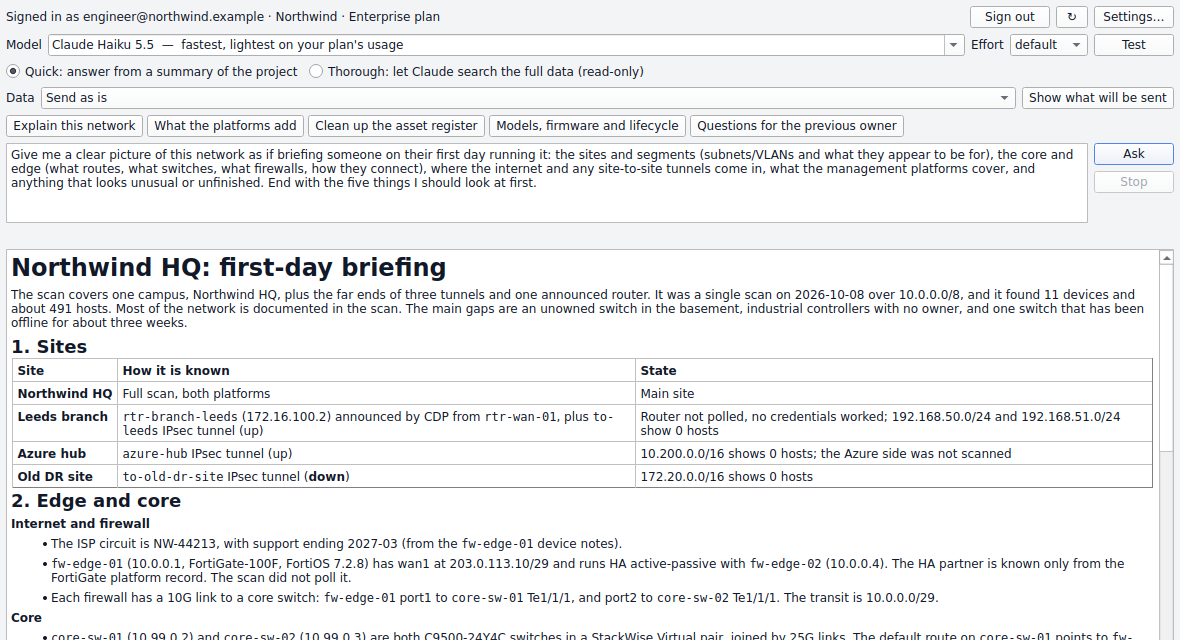
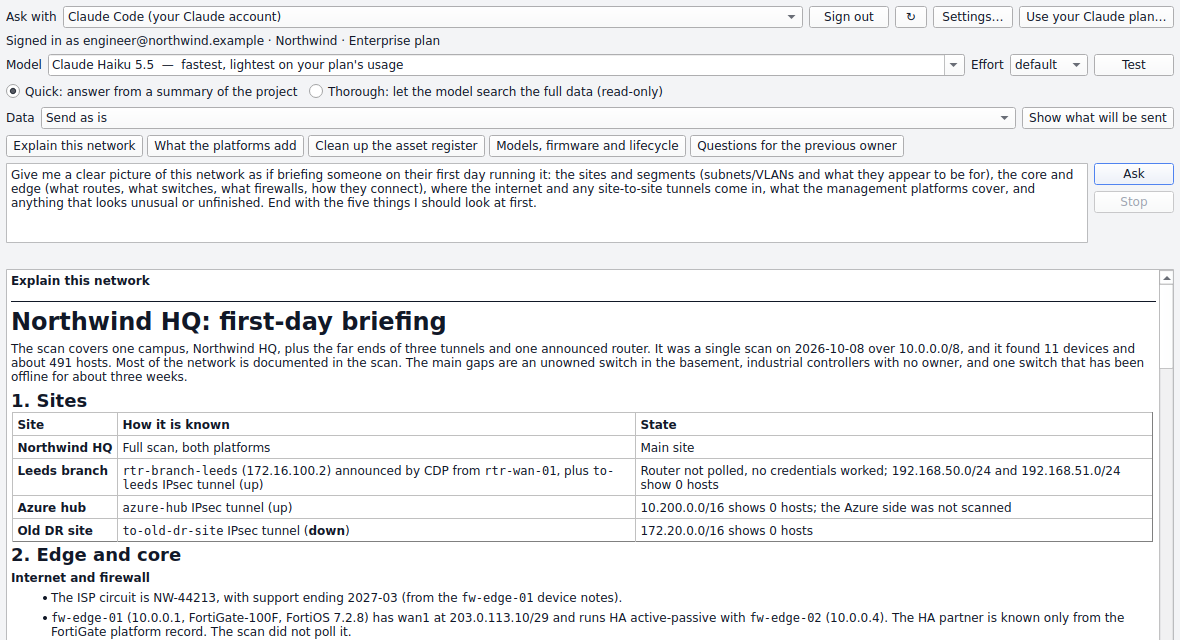
SubnetSleuth: Claude on any plan (Claude Desktop, Cowork, claude.ai) and AI providers through an API

Changed region(s): [[0.0, 0.375, 0.9763, 1.0], [0.0, 0.0, 1.0, 0.3438], [0.9763, 0.375, 1.0, 0.4375]]

diff --git a/src/content/projects/subnetsleuth/index.md b/src/content/projects/subnetsleuth/index.md
@@ -2,7 +2,7 @@
 title: 'SubnetSleuth: inventory and map a network you inherit'
 world: work
 date: 2026-10-01
-summary: "A Windows desktop app and command-line tool for taking stock of a network you are now responsible for but did not build. It reads the network's own devices over SNMP, read-only, and works out what is there and how it is wired: devices, links, subnets, VLANs and every host. It pulls in what the firewalls, management platforms, Active Directory and vCenter already know, from one place that holds every connection and credential, draws the VPN tunnels, and lets you ask Claude what it all means."
+summary: "A Windows desktop app and command-line tool for taking stock of a network you are now responsible for but did not build. It reads the network's own devices over SNMP, read-only, and works out what is there and how it is wired: devices, links, subnets, VLANs and every host. It pulls in what the firewalls, management platforms, Active Directory and vCenter already know, from one place that holds every connection and credential, draws the VPN tunnels, and lets you ask Claude, or another AI model, what it all means."
 featured: false
 cover: ./cover.png
 coverAlt: "SubnetSleuth's physical topology map of a sample campus: an edge firewall and WAN router above a core switch pair, with floor, server and warehouse switches below and access points under them"
@@ -96,11 +96,21 @@ What comes back is lined up with what the scan found. A device the platform mana
 
 ## Asking Claude about it
 
-Once the scan and the platforms are in, the questions are about meaning: what is this network, what is missing from the handover, which records are wrong. **Ask Claude** answers those from the project. It runs through the engineer's own Claude Code, signed in to their own Claude account (single sign-on through the organisation's identity provider works), so SubnetSleuth never handles that sign-in.
+Once the scan and the platforms are in, the questions are about meaning: what is this network, what is missing from the handover, which records are wrong. The **Ask AI** panel answers those from the project, with ready-made questions (explain this network, what the platforms add, clean up the asset register, models and firmware, questions for the previous owner) or your own. A quick answer works from a summary of the project. A thorough one lets the model list, read and search an export of the whole project, and nothing else: it cannot run commands, change files or browse. You can preview exactly what will be sent, and addresses, MACs, serials and names can be masked before anything leaves the machine and restored in the answer.
 
-There is a model and effort selector (Claude Haiku 5.5 by default, because it is quick and light on a plan's usage) and ready-made questions: explain this network, what the platforms add, clean up the asset register, models and firmware, and questions for the previous owner. A quick answer works from a summary of the project. A thorough one gives Claude read-only access to an export of the whole project, which it searches as it needs to. It cannot run commands, change files or browse. You can preview exactly what will be sent, and addresses, MACs, serials and names can be masked before anything leaves the machine and restored in the answer.
+![The Ask AI panel, asking through Claude Code signed in to a Claude Enterprise account, showing a kept answer to "Explain this network" for the sample campus: a first-day briefing that lists the sites, including three reached over VPN and one tunnel that is down, and the edge and core with their models and links](./assistant.png)
 
-![The Ask Claude panel answering "Explain this network" for the sample campus: a first-day briefing that lists the sites, including three reached over VPN and one tunnel that is down, the edge and core with their models and links, and the gaps — an unowned basement switch, single-homed warehouse switches](./assistant.png)
+**On a Claude plan.** Anthropic does not let other applications sign in to a Claude account, so SubnetSleuth works through Anthropic's own apps instead, under your own sign-in (single sign-on through your organisation included):
+
+- **Claude Code**: if your plan includes it, the panel asks through your own Claude Code.
+- **Claude Desktop and Cowork**: one button adds SubnetSleuth to Claude Desktop as a local connector, and each release also ships it as a desktop extension that an organisation can allow-list. In a chat or in Cowork, Claude can then read the project you last saved: a briefing, and read-only search over the exported data.
+- **claude.ai by hand**: a briefing file to attach to a chat or a Claude Project, or a data folder for Cowork, with the prompt on the clipboard. Nothing is sent by SubnetSleuth.
+
+![The Use your Claude plan window: SubnetSleuth added to Claude Desktop's connectors and reading the Northwind project, buttons for a chat briefing and a Cowork data folder, and a note on Claude Code](./claude-plan.png)
+
+**Through an API.** Claude can also be asked through Anthropic's API, Claude Platform on AWS, Amazon Bedrock, Google Cloud Vertex AI or Microsoft Foundry. Other vendors work too: OpenAI, Azure OpenAI, Google Gemini, Mistral, xAI, OpenRouter, a local Ollama, or any OpenAI-compatible gateway. Each is saved once as an **AI provider** in the same place as the connections and credentials, offers its current models and effort levels, and can list what your account can use. An API key is an ordinary saved credential. The cloud sign-ins (an AWS profile or SSO, Google Cloud, **Sign in with Microsoft** through Entra ID) are the cloud's own, so no password is stored. Questions go only to the provider's own address over HTTPS, and nothing in the environment can redirect them or the key.
+
+![The AI providers tab of Connections and credentials: Claude on Bedrock signing in with an AWS profile, the Claude API with an API key, Azure OpenAI signing in with Microsoft Entra ID, and a lab Ollama, each with its model and when it was last used](./ai-providers.png)
 
 ## Deep scan
 
@@ -144,4 +154,4 @@ subnetsleuth diff last-month.sleuth site.sleuth
 
 SubnetSleuth is written in Python: asyncio for the scanning, pysnmp for SNMP (v1, v2c and v3), Nmap when it is installed, and a PySide6 (Qt) desktop app. The scan engine has no Qt in it, so the app and the command line run the same code. Saved secrets are encrypted at rest with Windows DPAPI or the system keyring, and the log masks any secret that would otherwise be written to it.
 
-About 1,200 tests cover it, many of them against a simulated eleven-device campus and real SNMP agents bound to loopback addresses. Every connector is tested against responses recorded from its vendor's documented API, including tests that every request it can send is a read, that credentials never follow a redirect to another address, and that no secret ends up in a project file, an error message or the log. Every push builds the Windows installer on a Windows machine, starts the built app in a self-test mode that opens every page and every export, and screenshots it. The pictures on this page are those screenshots.
+About 1,250 tests cover it, many of them against a simulated eleven-device campus and real SNMP agents bound to loopback addresses. Every connector is tested against responses recorded from its vendor's documented API, including tests that every request it can send is a read, that credentials never follow a redirect to another address, and that no secret ends up in a project file, an error message or the log. Every push builds the Windows installer on a Windows machine, starts the built app in a self-test mode that opens every page and every export, and screenshots it. Most of the pictures on this page are those screenshots.
